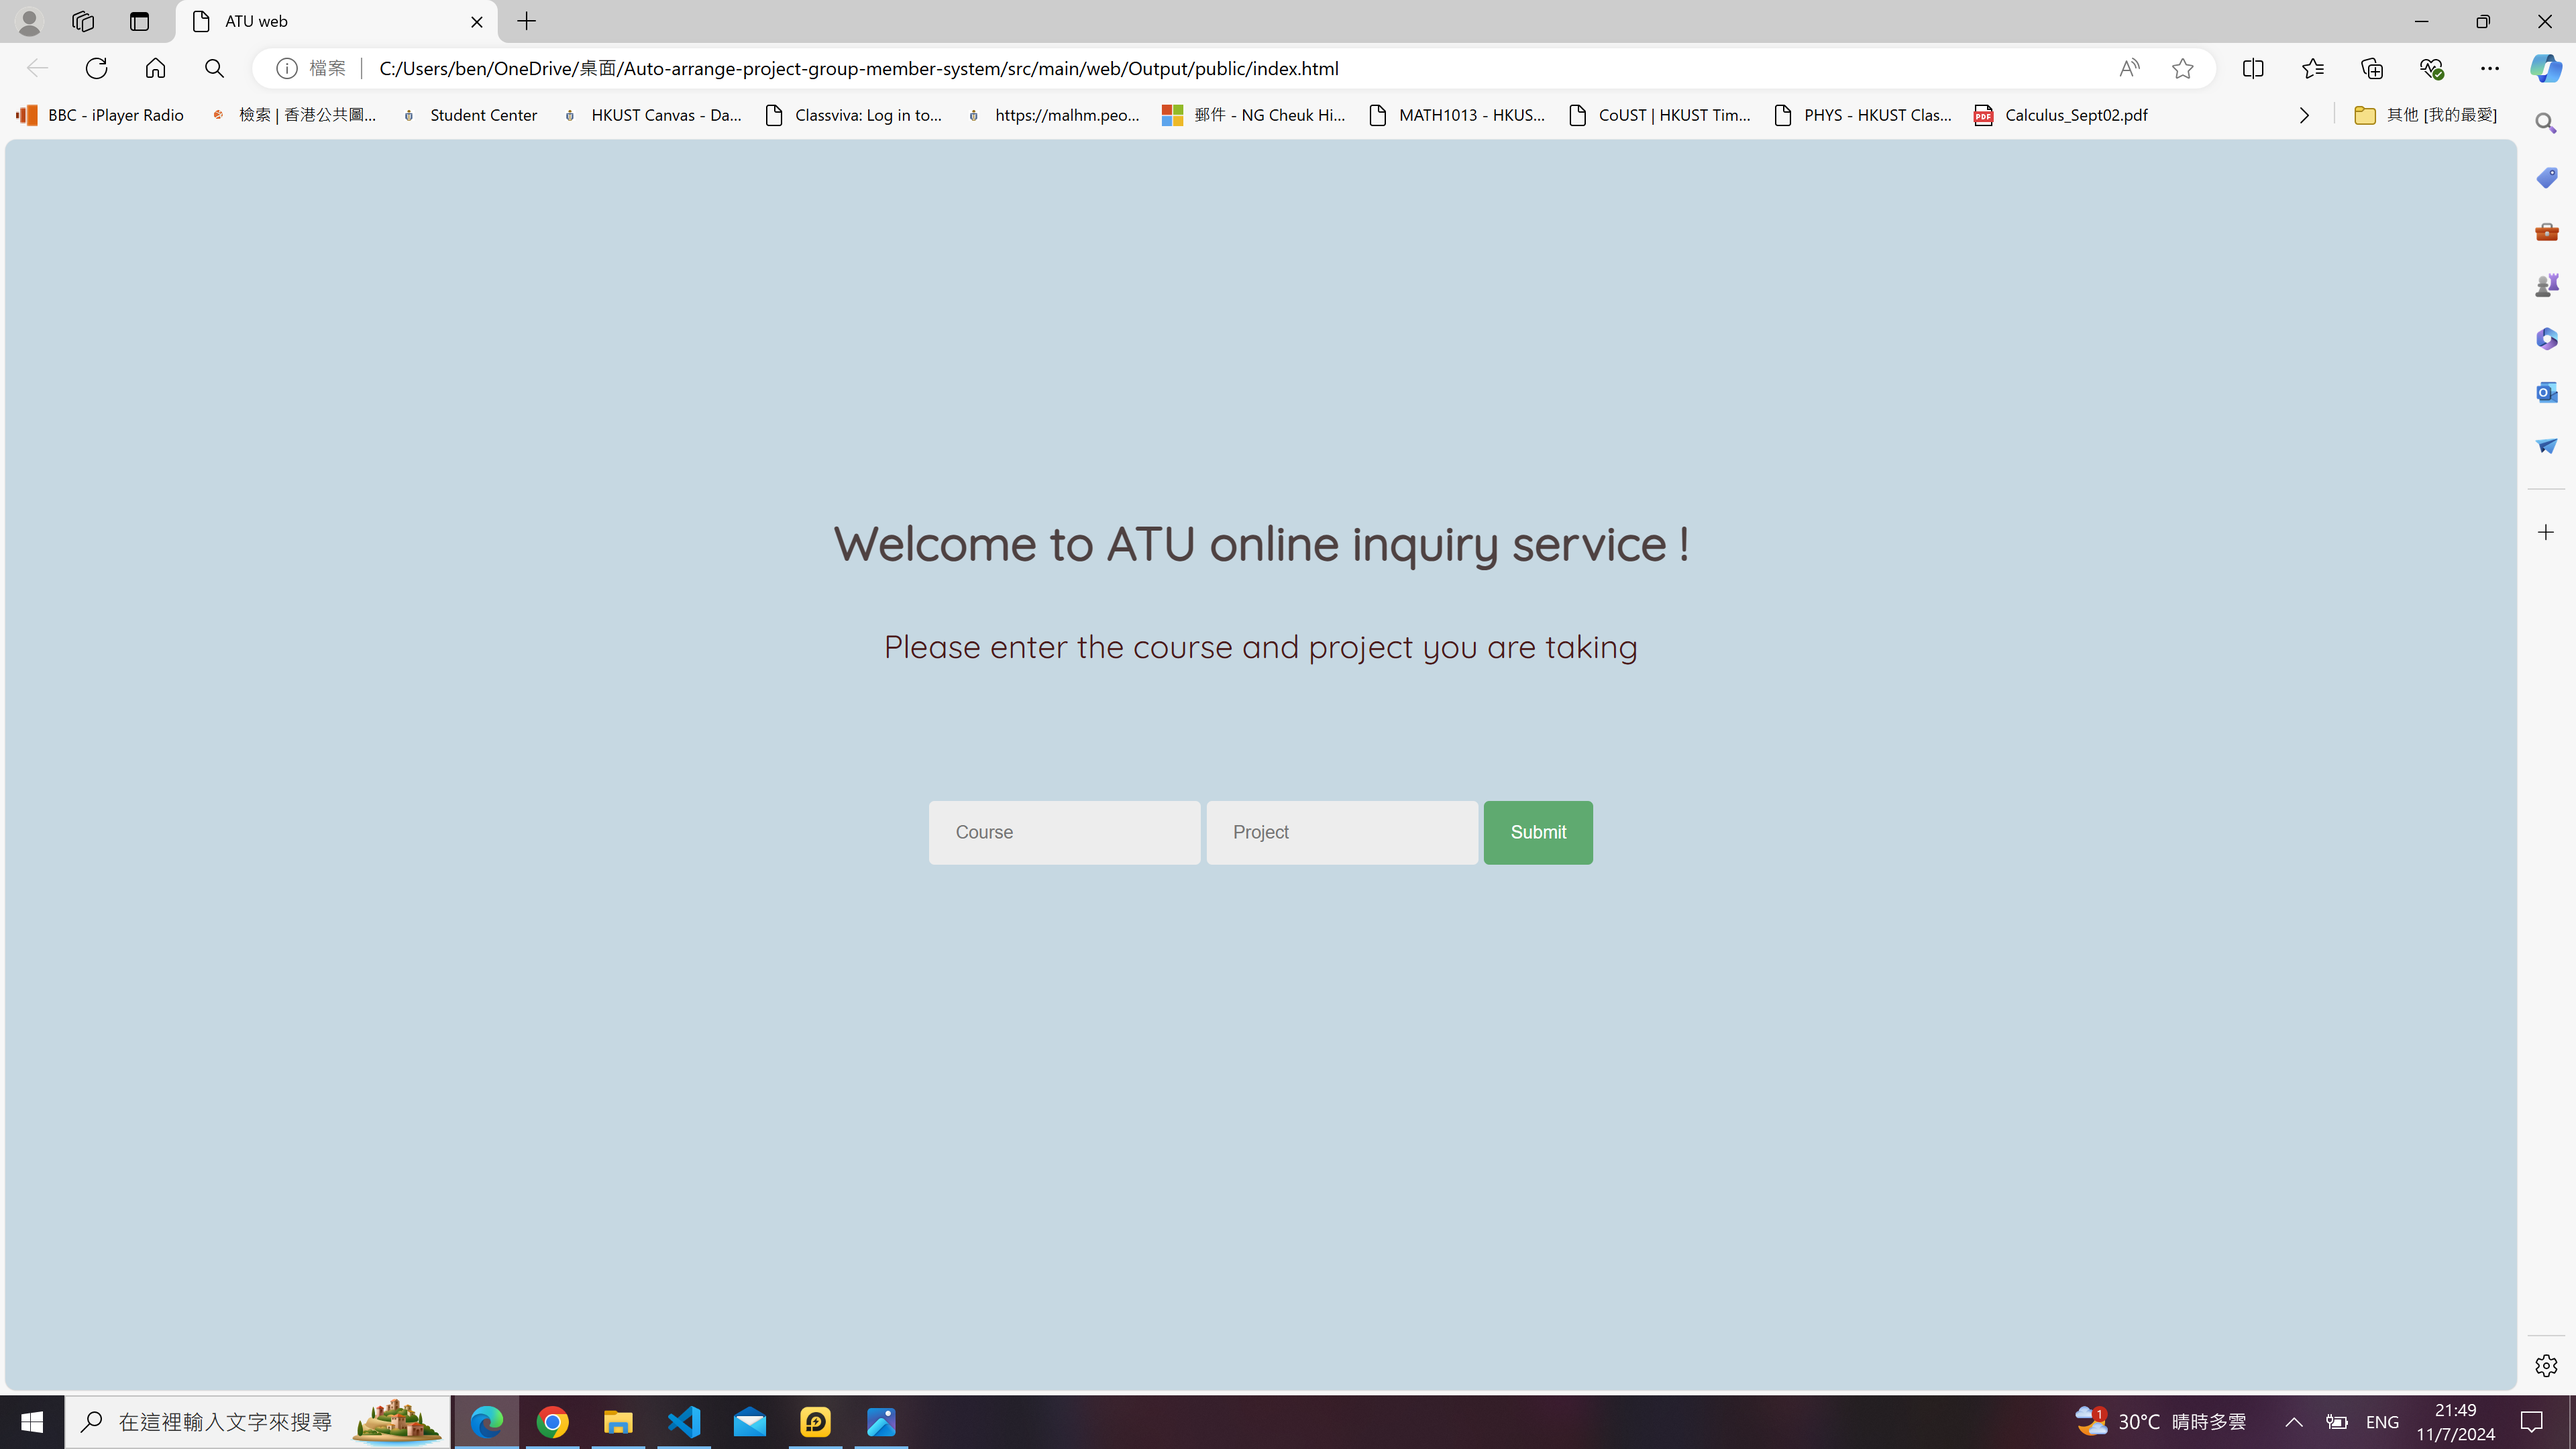
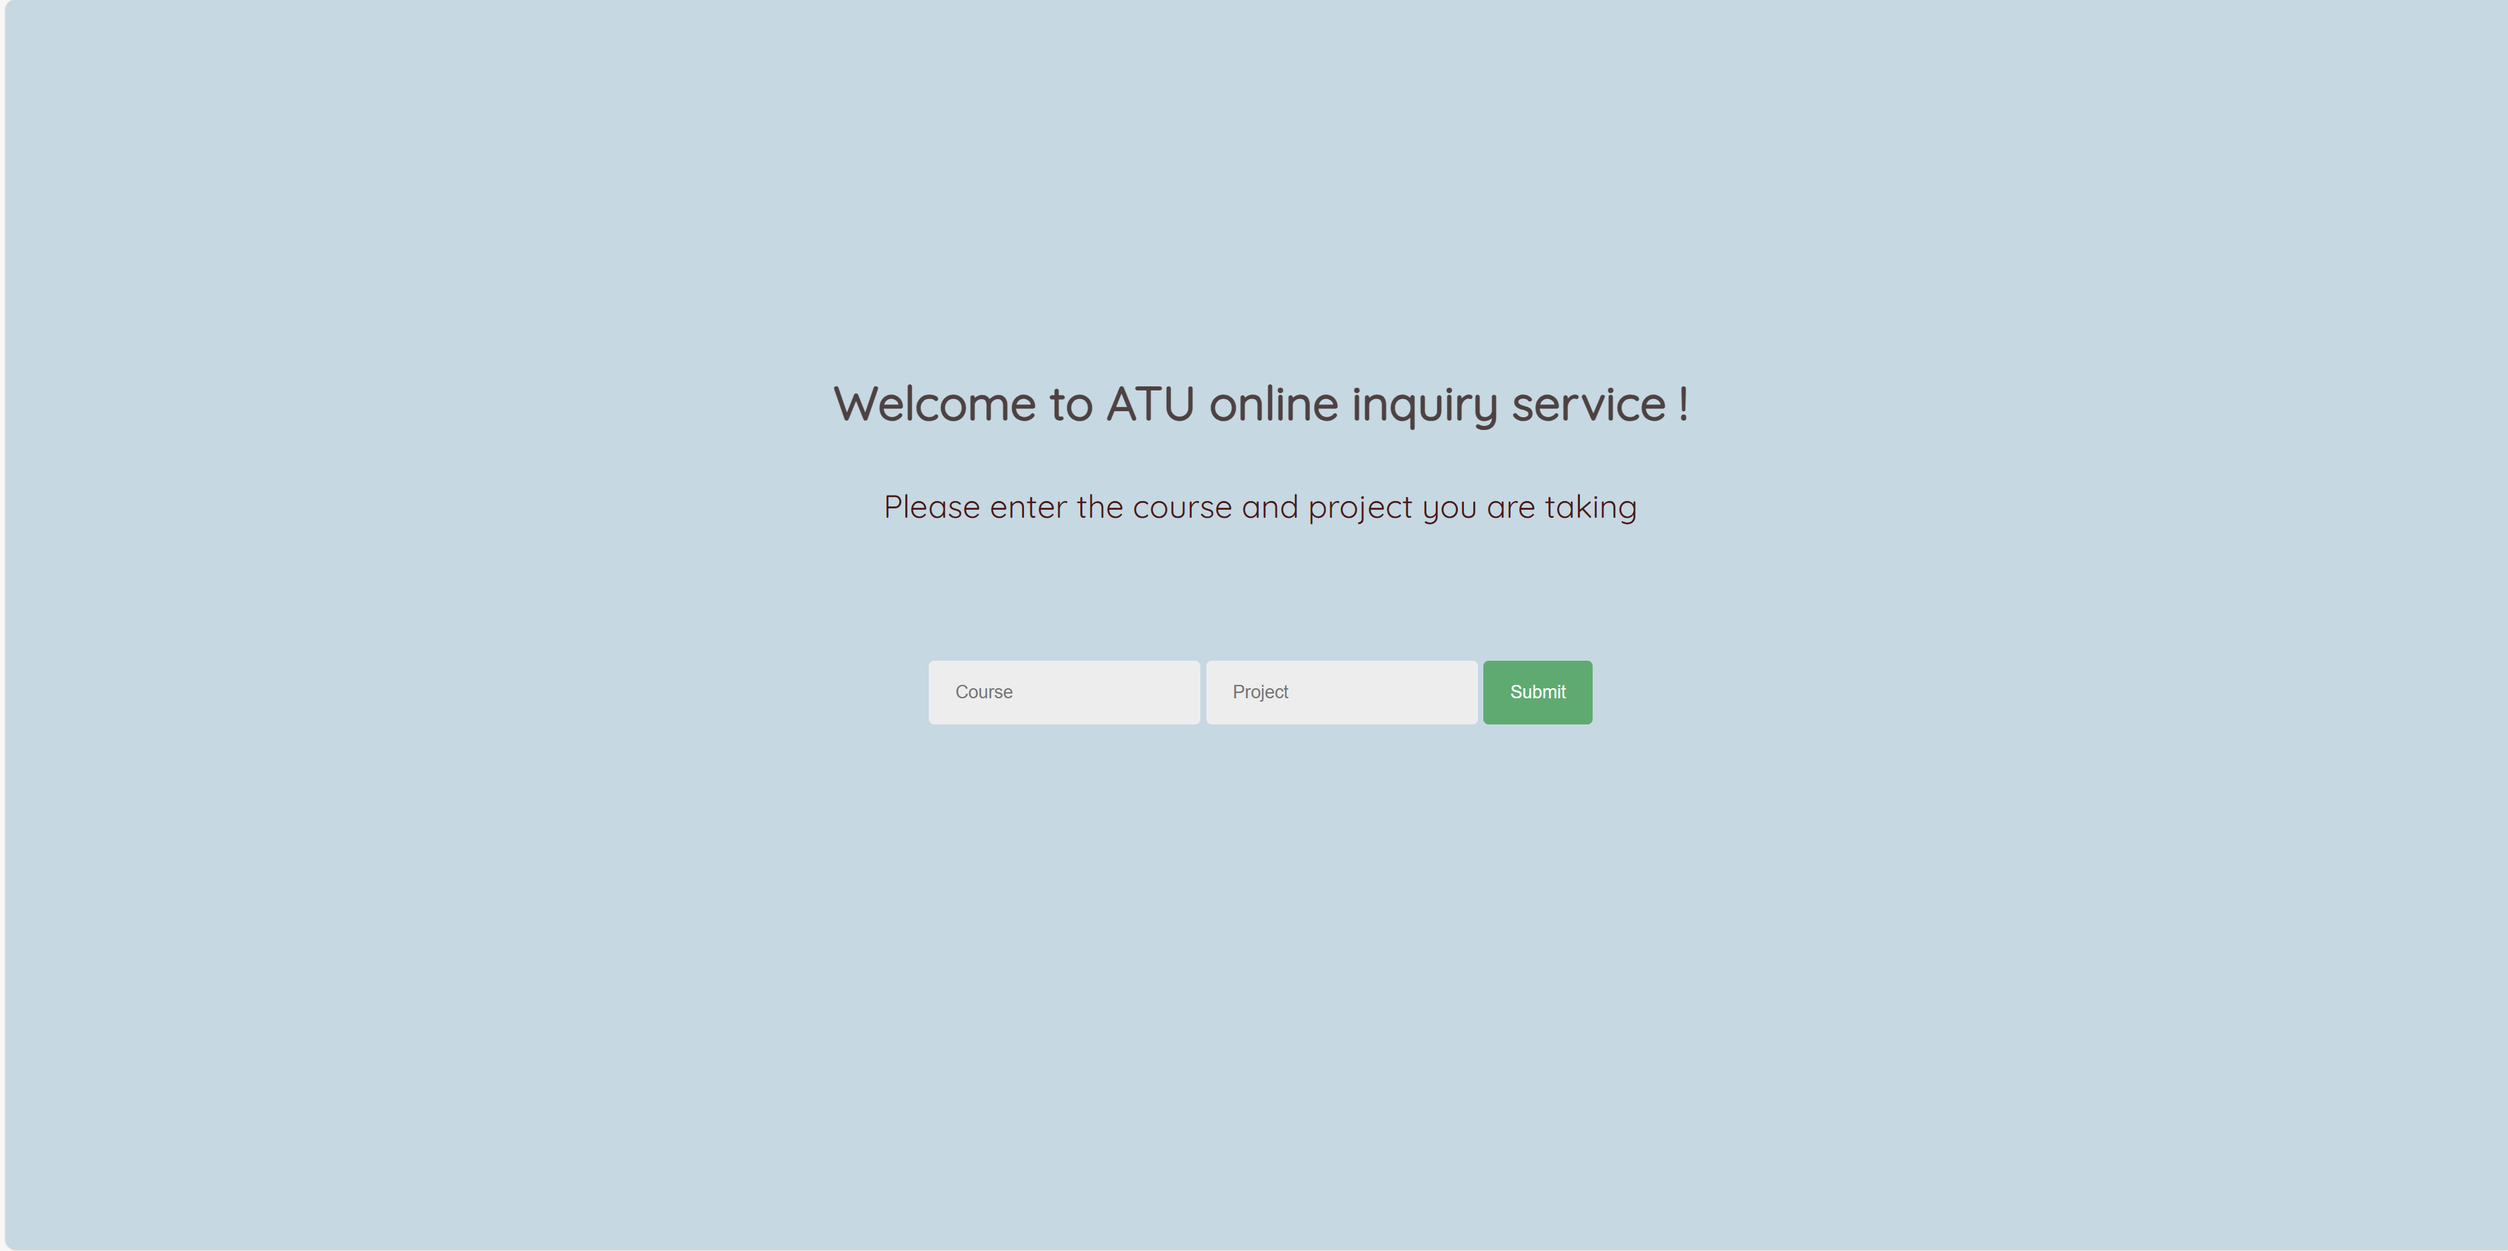
@media

Changed region(s): [[0.0, 0.0, 1.0, 1.0], [0.3102, 0.311, 0.6824, 0.4665], [0.3412, 0.5287, 0.6513, 0.622]]

diff --git a/style.css b/style.css
@@ -114,7 +114,7 @@ body {
   padding: 0.5em;
   color: rgb(0, 153, 255);
   width: 89em;
-  height: 3em;
+  height: auto;
   font-size: 1.3em;
   font-weight: bold;
   text-align: center;
@@ -133,6 +133,7 @@ body {
 
 .main_small_a_item {
   margin-top: 0.5em;
+  width: 38em;
   text-decoration: none;
   border: solid black 5px;
 }
@@ -154,4 +155,39 @@ body {
 .main_a_item {
   margin-top: 1em;
   text-decoration: none;
+}
+
+@media (max-width: 768px) { 
+  .Description{
+    width: auto;
+    height: auto;
+  }
+
+  .project_description {
+    width: 92vw;
+    height:auto;
+  }
+
+  .main_small_button_list{
+    display:block;
+    width: 100vw; 
+  }
+
+  .main_small_a_item {
+    width: 100vw;
+  }
+
+  .main_small_a_item + .main_small_a_item {
+    margin-left: 0px;
+  }
+
+  .main_button_item {
+    width: 92vw;
+  }
+  
+  .header_h_item {
+    width: 92vw;
+    text-align: center;
+  }
+  
 }

diff --git a/index.html b/index.html
@@ -3,6 +3,9 @@
 
 <head>
     <link href="style.css" rel="stylesheet">
+    <meta charset="UTF-8">
+    <meta http-equiv="X-UA-Compatible" content="IE=edge">
+    <meta name="viewport" content="width=device-width, initial-scale=1.0">
 </head>
 
 <body>
